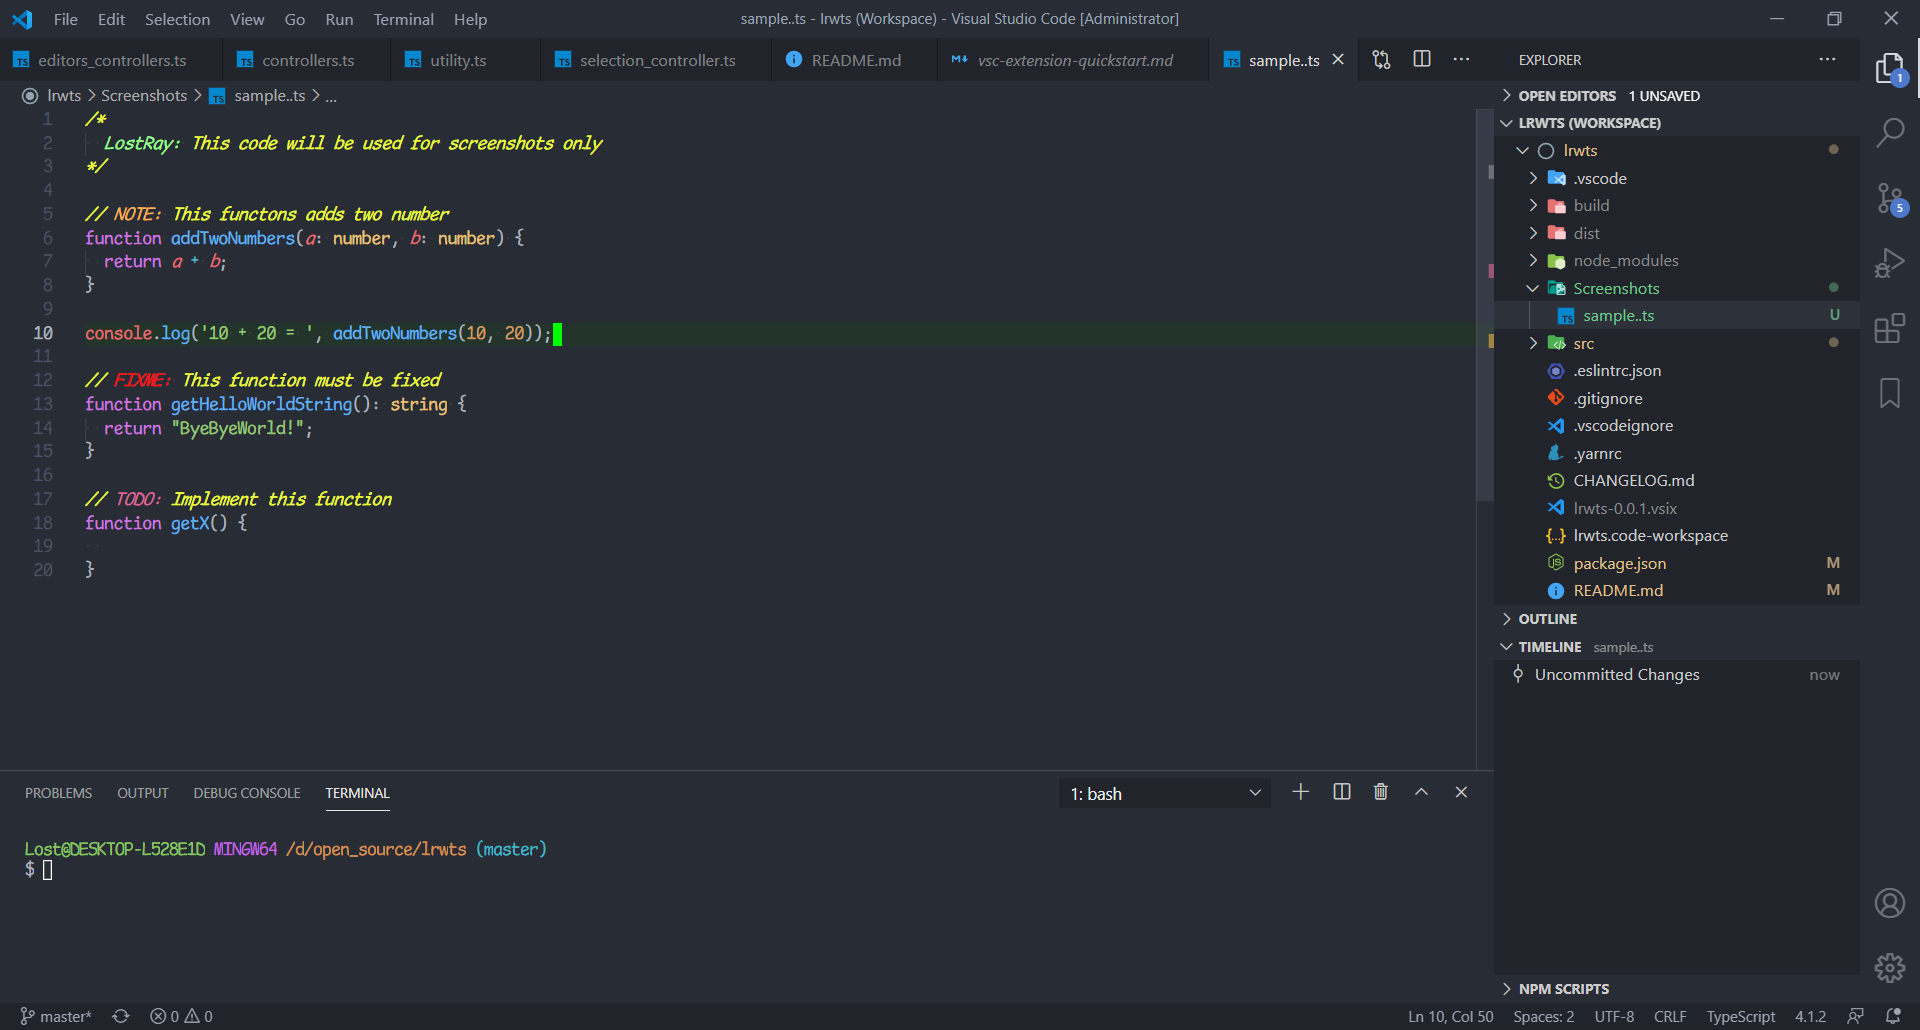
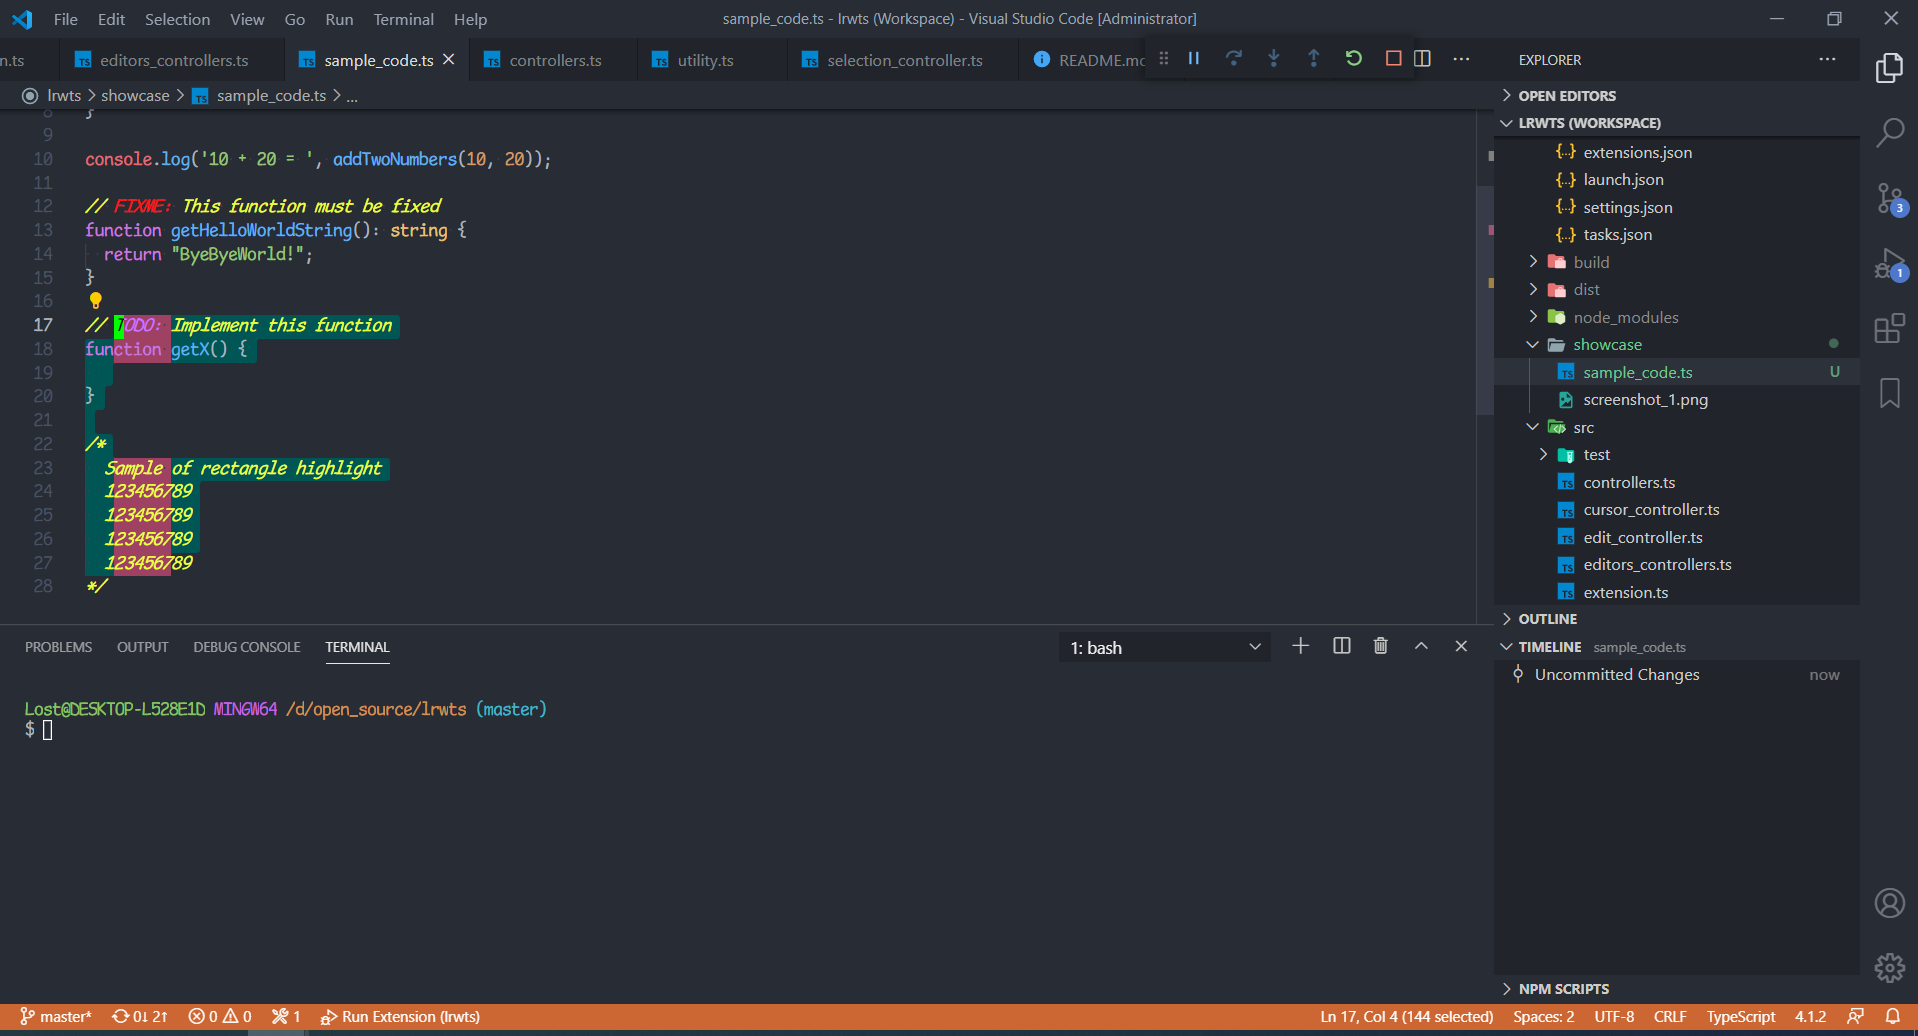
Updated README and screenshot

diff --git a/README.md b/README.md
@@ -40,7 +40,7 @@
 18. ctrl+d - удалить слово справа от курса с копированием этого слова в буффер
 19. alt+g d - перейти к определению
 20. alt+s w - выделить текущее слово
-21. alt+s q - выделить всё между кавычками (работает как для двойных '"' так и для одинарных ''')
+21. alt+s q - выделить всё между кавычками (включая кавычки) (работает как для двойных '"' так и для одинарных ''')
 22. alt+. - курсор в конец файла
 23. alt+, - курсор в начало файла
 24. alt+g f - курсор вперёд (тоже самое что alt+rightArrow)
@@ -69,5 +69,4 @@
 2. Устанавливаем в VSCode
 
 ## TODO ##
-1. Сделать выделение в кавычках умнее (сейчас может не работать во многих случаях, например, если в строке есть другие кавычки)
-2. Обновить скрин
+...
